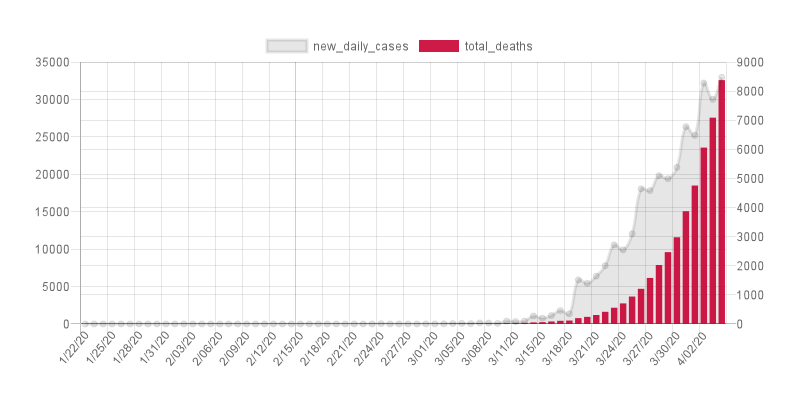
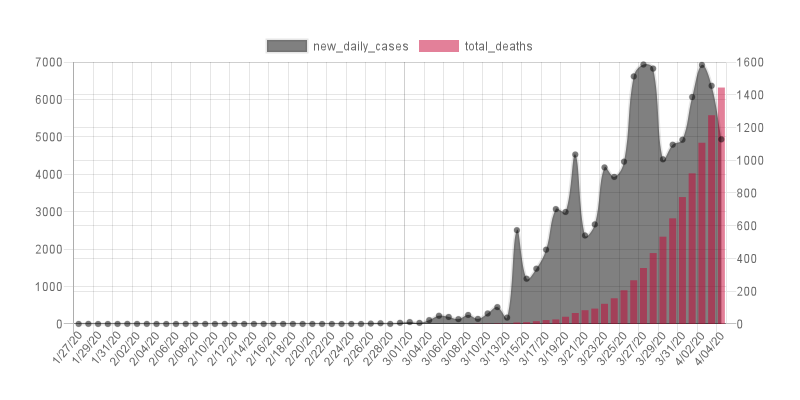
a

diff --git a/src/services/virus.js b/src/services/virus.js
@@ -10,21 +10,7 @@ const plugin = {
           ctx.fillRect(0, 0, chartInstance.chart.width, chartInstance.chart.height);
         }
 }
-const countries = ['AF', 'AL', 'DZ', 'AO', 'AR', 'AM', 'AU', 'AT', 'AZ', 'BS'
-, 'BD', 'BY', 'BE', 'BZ', 'BJ', 'BT', 'BO', 'BA', 'BW', 'BR', 'BN', 'BG', 'BF'
-, 'BI', 'KH', 'CM', 'CA', 'CI', 'CF', 'TD', 'CL', 'CN', 'CO', 'CG', 'CD', 'CR'
-, 'HR', 'CU', 'CY', 'CZ', 'DK', 'DP', 'DJ', 'DO', 'CD', 'EC', 'EG', 'SV', 'GQ'
-, 'ER', 'EE', 'ET', 'FK', 'FJ', 'FI', 'FR', 'GF', 'TF', 'GA', 'GM', 'GE', 'DE'
-, 'GH', 'GR', 'GL', 'GT', 'GN', 'GW', 'GY', 'HT', 'HN', 'HK', 'HU', 'IS', 'IN'
-, 'ID', 'IR', 'IQ', 'IE', 'IL', 'IT', 'JM', 'JP', 'JO', 'KZ', 'KE', 'KP', 'XK'
-, 'KW', 'KG', 'LA', 'LV', 'LB', 'LS', 'LR', 'LY', 'LT', 'LU', 'MK', 'MG', 'MW'
-, 'MY', 'ML', 'MR', 'MX', 'MD', 'MN', 'ME', 'MA', 'MZ', 'MM', 'NA', 'NP', 'NL'
-, 'NC', 'NZ', 'NI', 'NE', 'NG', 'KP', 'NO', 'OM', 'PK', 'PS', 'PA', 'PG', 'PY'
-, 'PE', 'PH', 'PL', 'PT', 'PR', 'QA', 'XK', 'RO', 'RU', 'RW', 'SA', 'SN', 'RS'
-, 'SL', 'SG', 'SK', 'SI', 'SB', 'SO', 'ZA', 'KR', 'SS', 'ES', 'LK', 'SD', 'SR'
-, 'SJ', 'SZ', 'SE', 'CH', 'SY', 'TW', 'TJ', 'TZ', 'TH', 'TL', 'TG', 'TT', 'TN'
-, 'TR', 'TM', 'AE', 'UG', 'GB', 'UA', 'US', 'UY', 'UZ', 'VU', 'VE', 'VN', 'EH'
-, 'YE', 'ZM', 'ZW']
+
 
 
 module.exports = class Virus
@@ -32,6 +18,22 @@ module.exports = class Virus
     constructor(message, options = []) {
 
         this.message = message
+
+        this.countries = ['AF', 'AL', 'DZ', 'AO', 'AR', 'AM', 'AU', 'AT', 'AZ', 'BS'
+        , 'BD', 'BY', 'BE', 'BZ', 'BJ', 'BT', 'BO', 'BA', 'BW', 'BR', 'BN', 'BG', 'BF'
+        , 'BI', 'KH', 'CM', 'CA', 'CI', 'CF', 'TD', 'CL', 'CN', 'CO', 'CG', 'CD', 'CR'
+        , 'HR', 'CU', 'CY', 'CZ', 'DK', 'DP', 'DJ', 'DO', 'CD', 'EC', 'EG', 'SV', 'GQ'
+        , 'ER', 'EE', 'ET', 'FK', 'FJ', 'FI', 'FR', 'GF', 'TF', 'GA', 'GM', 'GE', 'DE'
+        , 'GH', 'GR', 'GL', 'GT', 'GN', 'GW', 'GY', 'HT', 'HN', 'HK', 'HU', 'IS', 'IN'
+        , 'ID', 'IR', 'IQ', 'IE', 'IL', 'IT', 'JM', 'JP', 'JO', 'KZ', 'KE', 'KP', 'XK'
+        , 'KW', 'KG', 'LA', 'LV', 'LB', 'LS', 'LR', 'LY', 'LT', 'LU', 'MK', 'MG', 'MW'
+        , 'MY', 'ML', 'MR', 'MX', 'MD', 'MN', 'ME', 'MA', 'MZ', 'MM', 'NA', 'NP', 'NL'
+        , 'NC', 'NZ', 'NI', 'NE', 'NG', 'KP', 'NO', 'OM', 'PK', 'PS', 'PA', 'PG', 'PY'
+        , 'PE', 'PH', 'PL', 'PT', 'PR', 'QA', 'XK', 'RO', 'RU', 'RW', 'SA', 'SN', 'RS'
+        , 'SL', 'SG', 'SK', 'SI', 'SB', 'SO', 'ZA', 'KR', 'SS', 'ES', 'LK', 'SD', 'SR'
+        , 'SJ', 'SZ', 'SE', 'CH', 'SY', 'TW', 'TJ', 'TZ', 'TH', 'TL', 'TG', 'TT', 'TN'
+        , 'TR', 'TM', 'AE', 'UG', 'GB', 'UA', 'US', 'UY', 'UZ', 'VU', 'VE', 'VN', 'EH'
+        , 'YE', 'ZM', 'ZW']
 
         this.country = this.checkOptions(options)
 
@@ -56,7 +58,7 @@ module.exports = class Virus
 
         if (options.length == 1) {
 
-            if countries.includes(options[0]) return options[0]
+            if (this.countries.includes(options[0].toUpperCase())) return options[0]
         }
 
         this.sendMessage('Country not found... defaulting to FR')
@@ -107,7 +109,8 @@ module.exports = class Virus
                         label: 'new_daily_cases',
                         data: data.new_daily_cases,
                         yAxisID: 'A',
-                        type: 'line'
+                        type: 'line',
+                        backgroundColor: 'rgba(0, 0, 0, 0.5)'
                     },
                     // {
                     //     label: 'new_daily_deaths',
@@ -130,7 +133,7 @@ module.exports = class Virus
                         data: data.total_deaths,
                         type: 'bar',
                         yAxisID: 'B',
-                        backgroundColor: 'rgba(200, 0, 50, 0.9)'
+                        backgroundColor: 'rgba(200, 0, 50, 0.5)'
                     }
                     ]
                 },
